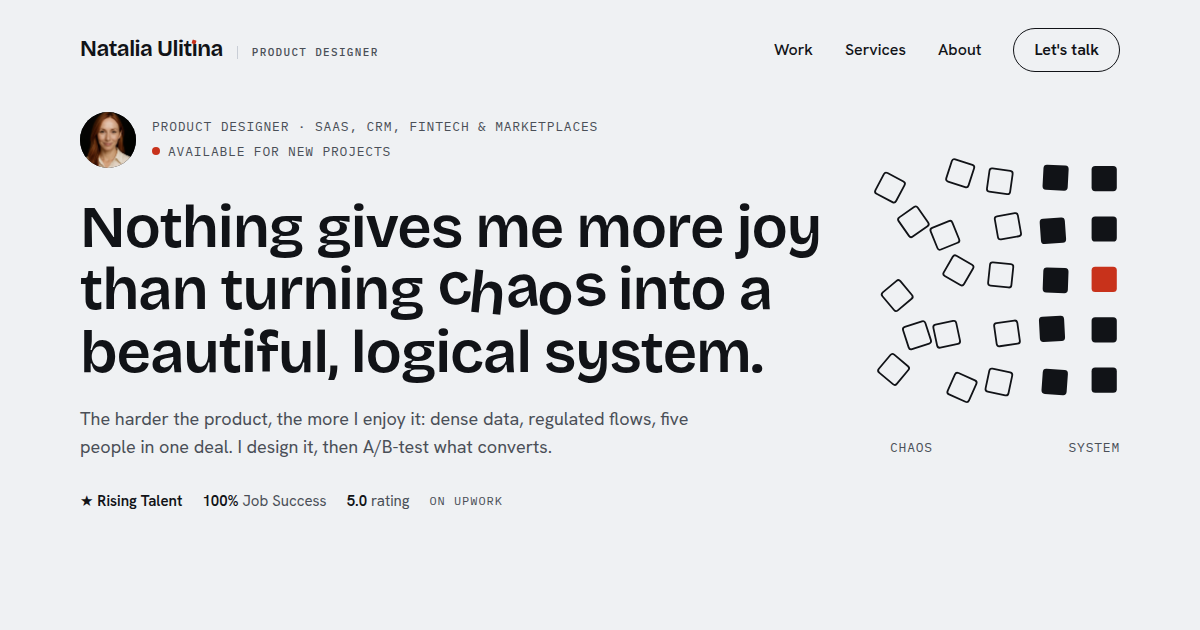
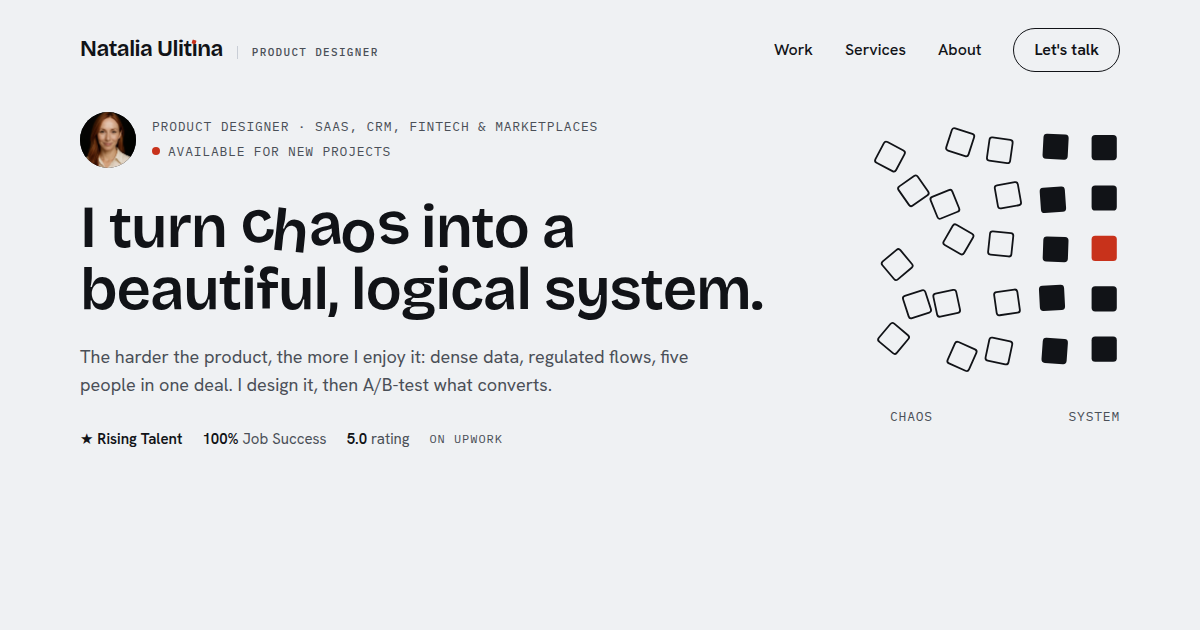
Shorter hero headline

diff --git a/index.html b/index.html
@@ -30,7 +30,7 @@
 <section class="hero"><div class="wrap">
 <div>
 <div class="who" data-spec="Photo · 56 round · the person you'll work with, directly"><span class="avatar"><img src="natalia.webp" alt="Natalia Ulitina" width="900" height="1252" decoding="auto"></span><span class="who-text"><span>Product designer · SaaS, CRM, fintech &amp; marketplaces</span><span><span class="dot"></span>Available for new projects</span></span></div>
-<h1 class="h1" data-spec="H1 · Bricolage 76/79 · one idea, one sentence">Nothing gives me more joy than turning <span class="sr">chaos</span><span class="chaos" aria-hidden="true"><span>c</span><span>h</span><span>a</span><span>o</span><span>s</span></span> into a beautiful, logical system.</h1>
+<h1 class="h1" data-spec="H1 · Bricolage · one idea, eight words">I turn <span class="sr">chaos</span><span class="chaos" aria-hidden="true"><span>c</span><span>h</span><span>a</span><span>o</span><span>s</span></span> into a beautiful, logical system.</h1>
 <p class="lead" data-spec="Body L · Hanken 20/31 · max ≈ 62 characters a line">The harder the product, the more I enjoy it: dense data, regulated flows, five people in one deal. I design it, then A/B-test what converts.</p>
 <div class="btns" data-spec="Buttons · 52 tall · touch target ≥ 44"><a class="btn btn-primary" href="#work">See my work <svg viewBox="0 0 24 24" fill="none" stroke="currentColor" stroke-width="2" stroke-linecap="round" stroke-linejoin="round" aria-hidden="true"><path d="M5 12h14M13 6l6 6-6 6"/></svg></a><button type="button" class="btn xray-toggle quiet" aria-pressed="false"><span class="switch" aria-hidden="true"></span><span class="xray-label">See how this page is built</span></button></div>
 <p class="hero-proof" aria-label="Upwork record"><span><b>★ Rising Talent</b></span><span><b>100%</b> Job Success</span><span><b>5.0</b> rating</span><span class="via">on Upwork</span></p>
